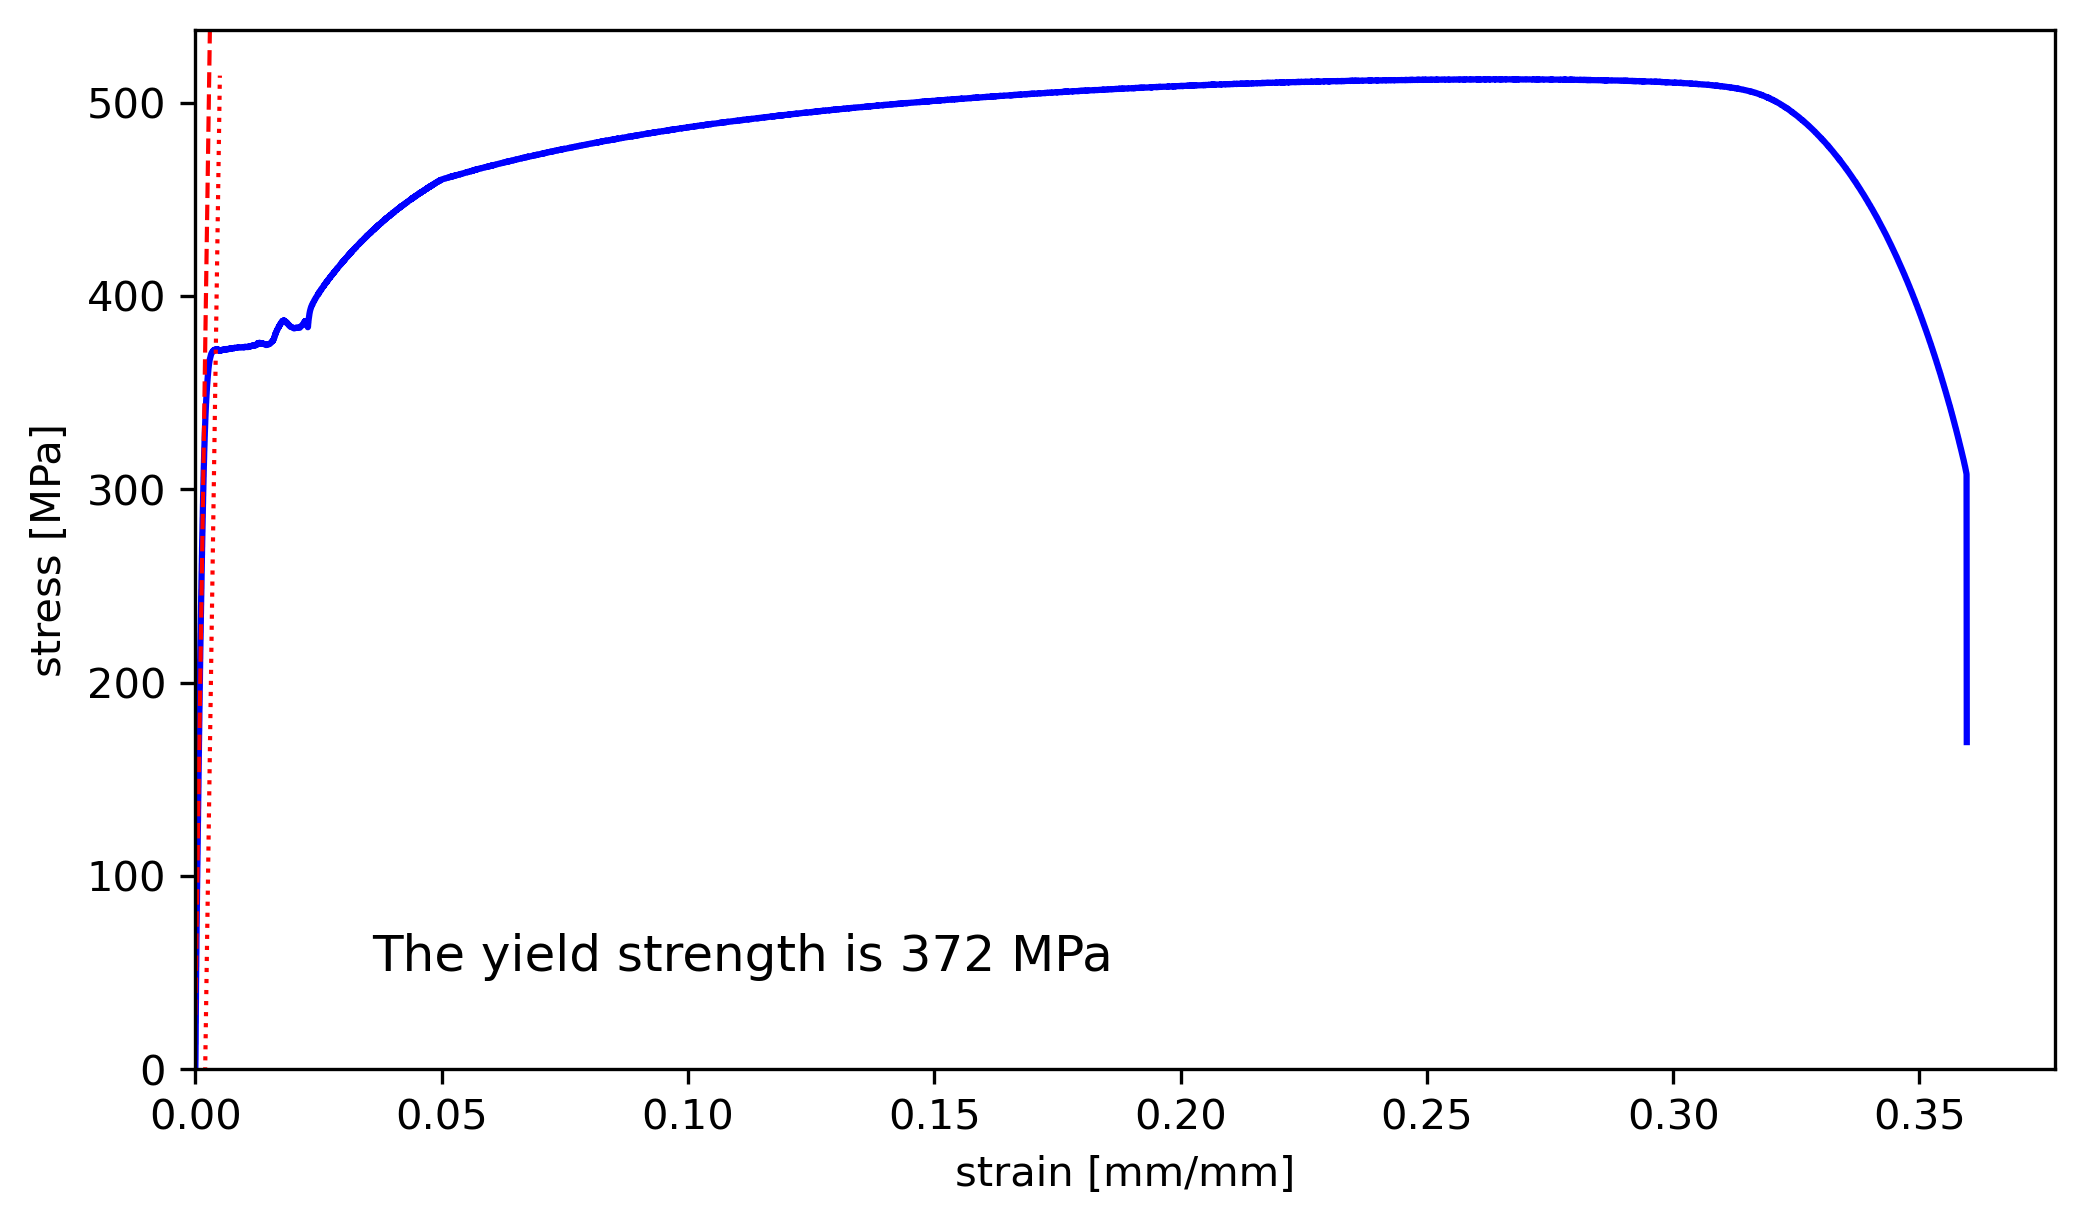
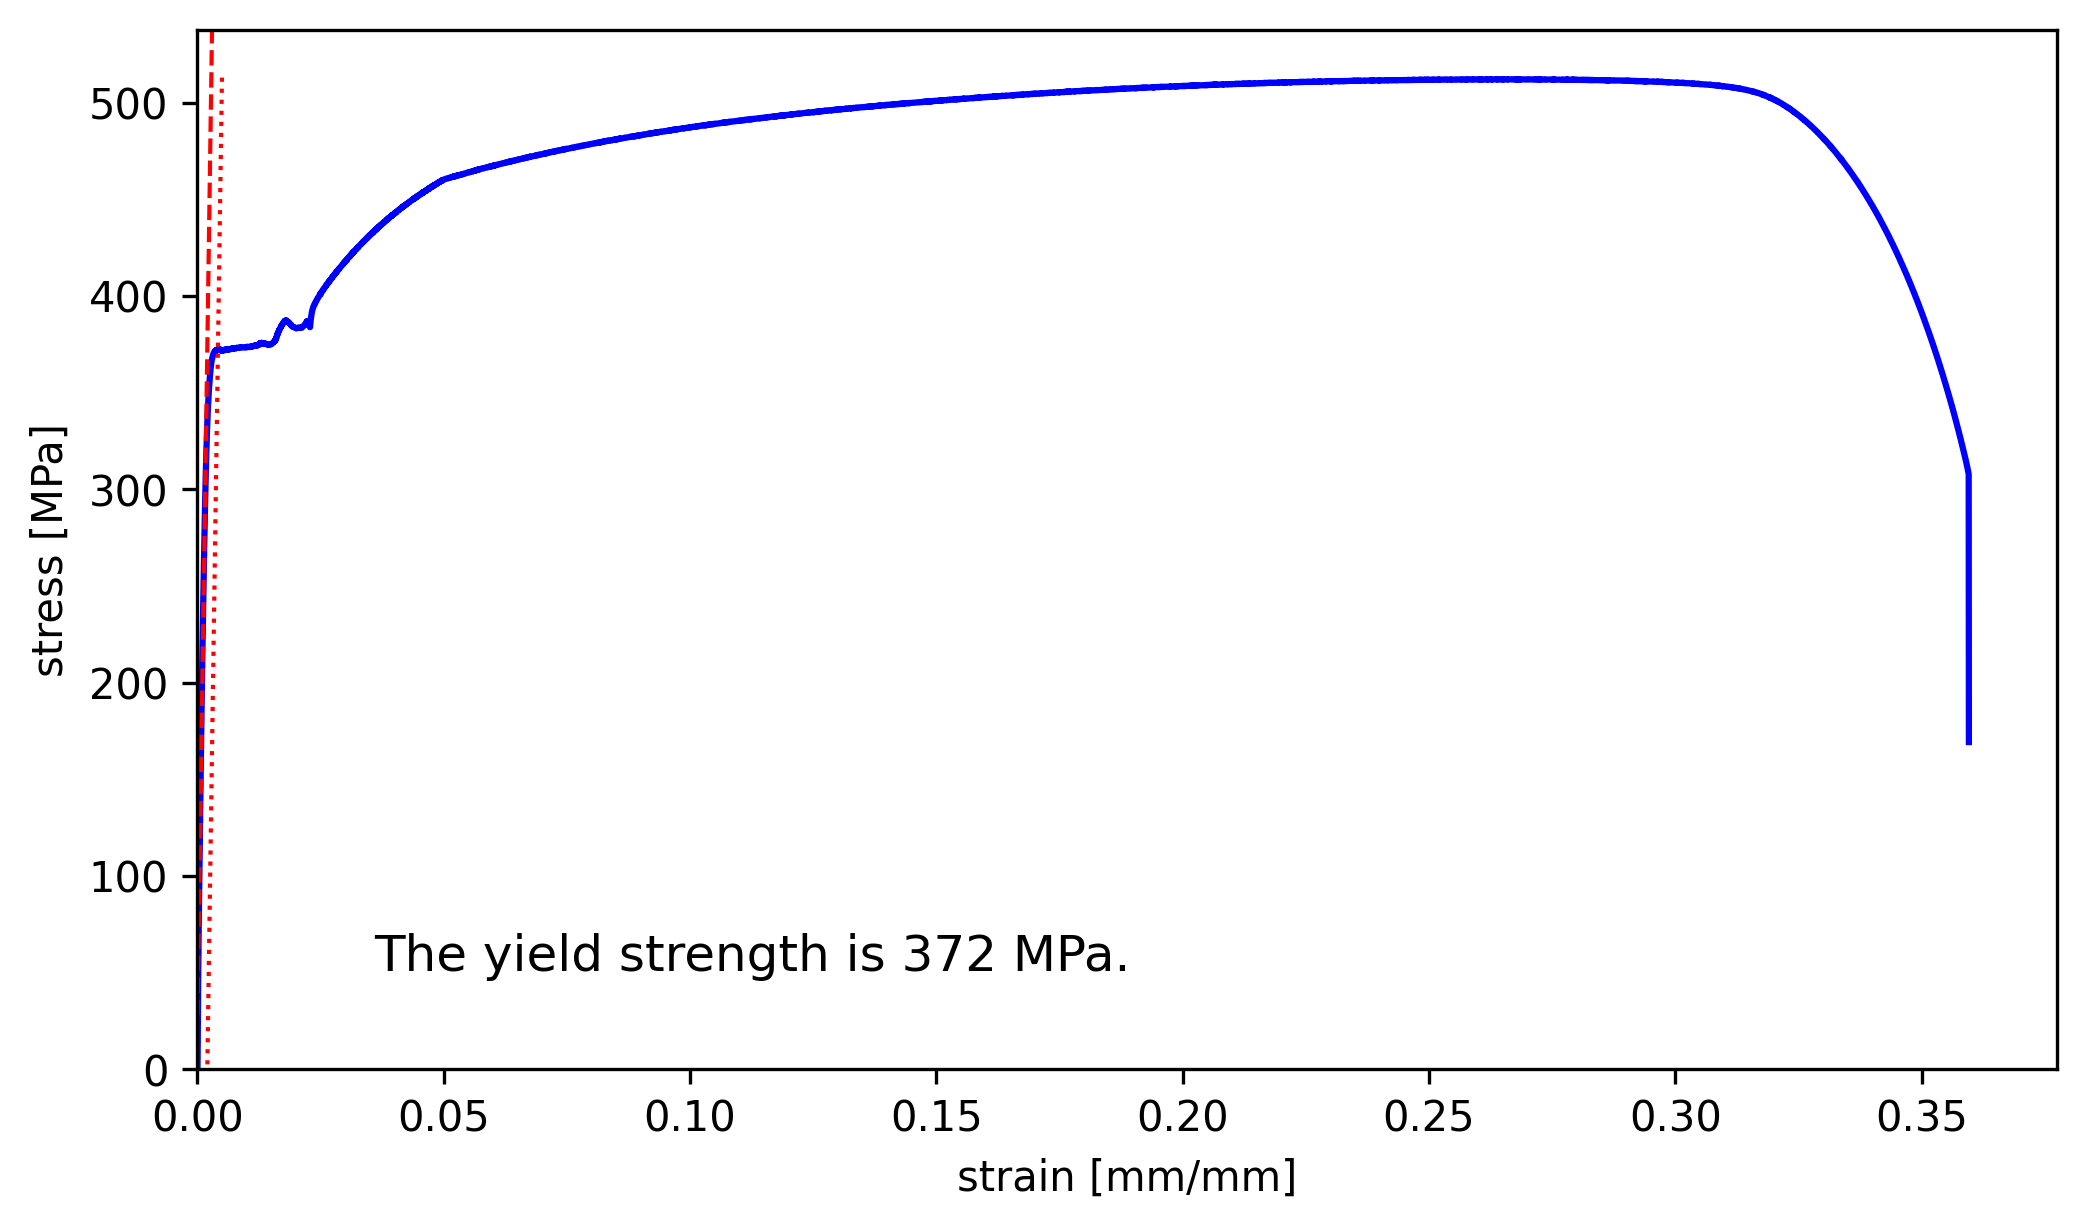
new functions

Changed region(s): [[0.0, 0.031, 0.9976, 0.9616], [0.1871, 0.7445, 0.53, 0.8065]]

diff --git a/tensile_test.py b/tensile_test.py
@@ -1,6 +1,6 @@
-import matplotlib.pyplot as plt 
-import numpy as np 
-import scipy as sp 
+import matplotlib.pyplot as plt
+import numpy as np
+import scipy as sp
 from scipy.optimize import curve_fit
 from utils import Hooke, r_squared
 
@@ -11,48 +11,50 @@ def plot_eng_SSC(strain, stress, save = False):
     plt.xlabel('strain [mm/mm]')
     plt.ylabel('stress [MPa]')
     plt.xlim(0, 1.05* max(strain))
-    plt.ylim(0, 1.05*max(stress))  
-    
-    if save != False:       
+    plt.ylim(0, 1.05*max(stress))
+
+    if save != False:
         plt.savefig('output/eng_SSC', dpi=300, bbox_inches='tight',transparent=False)
     else:
         plt.show()
 
 
-    
-def young_modulus(strain, stress, save = False):
-    
+
+def young_modulus(strain, stress, show_plot = False, save = False):
+
 # taking only the elastic portion of a curve
     x = strain[strain < 0.002]
-    y = stress[0:len(x)]    
+    y = stress[0:len(x)]
 # performing the linear regression on the elastic part of the data
     init_guess = [100000, 0]
     model = curve_fit(Hooke, x, y, p0 = init_guess)
     ans, cov = model
-    E, b = ans    
+    E, b = ans
     fit_curve = E * x + b
     E_gpa = round(E / 1000)
-    
+
 # calculating the R_squared statistic
     r2 = r_squared(x, y, Hooke, ans)
-# plotting the figure and showing or saving the figure
-    plt.figure(figsize = (8,4.5))
-    plt.plot(strain, stress, 'b-')
-    plt.plot(x, fit_curve, 'r-', linewidth = 2 )
-    plt.xlabel('strain [mm/mm]')
-    plt.ylabel('stress [MPa]')
-    plt.xlim(0, 1.05* max(strain))
-    plt.ylim(0, 1.05*max(stress))
-    plt.text(0.1*max(strain), 0.1*max(stress), f'The elasticity modulus is {E_gpa} GPa, R² = {round(r2, 4)}', fontsize=12)  
 
-    if save != False:     
-        plt.savefig('output/elasticity', dpi=300, bbox_inches='tight',transparent=False)
-    else:
-        plt.show()
-    
+    if show_plot == True:
+    # plotting the figure and showing or saving the figure
+        plt.figure(figsize = (8,4.5))
+        plt.plot(strain, stress, 'b-')
+        plt.plot(x, fit_curve, 'r-', linewidth = 2 )
+        plt.xlabel('strain [mm/mm]')
+        plt.ylabel('stress [MPa]')
+        plt.xlim(0, 1.05* max(strain))
+        plt.ylim(0, 1.05*max(stress))
+        plt.text(0.1*max(strain), 0.1*max(stress), f'The elasticity modulus is {E_gpa} GPa, R² = {round(r2, 4)}', fontsize=12)
+
+        if save != False:
+            plt.savefig('output/elasticity', dpi=300, bbox_inches='tight',transparent=False)
+        else:
+            plt.show()
+
     return E, int(b), r2
 
-def sigma_y(strain, stress, E_mpa, b, save = False):
+def sigma_y(strain, stress, E_mpa, b = 0, show_plot = True, save = False):
     # taking part of the data
     x = strain[strain < 0.005]
     k = x - 0.002
@@ -60,29 +62,68 @@ def sigma_y(strain, stress, E_mpa, b, save = False):
     # finding the index of sig_y
     i = 0
     while stress[i] > z[i]:
-        i = i + 1 
+        i = i + 1
 
     sig_y = stress[i]
 
+    if show_plot == True:
+            
+        plt.figure(figsize = (8,4.5))
+        plt.plot(strain, stress, 'b-')
+        plt.plot(x, Hooke(x, E_mpa, b), 'r--', linewidth = 1 )
+        plt.plot(x, Hooke(k, E_mpa), 'r:', linewidth = 1 )
+        plt.xlabel('strain [mm/mm]')
+        plt.ylabel('stress [MPa]')
+        plt.xlim(0, 1.05* max(strain))
+        plt.ylim(0, 1.05*max(stress))
+        plt.text(0.1*max(strain), 0.1*max(stress), f'The yield strength is {round(sig_y)} MPa.', fontsize=12)
 
-    plt.figure(figsize = (8,4.5))
-    plt.plot(strain, stress, 'b-')
-    plt.plot(x, Hooke(x, E_mpa, b), 'r--', linewidth = 1 )
-    plt.plot(x, Hooke(k, E_mpa), 'r:', linewidth = 1 )
-    plt.xlabel('strain [mm/mm]')
-    plt.ylabel('stress [MPa]')
-    plt.xlim(0, 1.05* max(strain))
-    plt.ylim(0, 1.05*max(stress))
-    plt.text(0.1*max(strain), 0.1*max(stress), f'The yield strength is {round(sig_y)} MPa.', fontsize=12)
+        if save != False:
+            plt.savefig('output/sigma_yield', dpi=300, bbox_inches='tight',transparent=False)
+        else:
+            plt.show()
 
-    if save != False:     
-        plt.savefig('output/sigma_yield', dpi=300, bbox_inches='tight',transparent=False)
-    else:
-        plt.show()
-    
     print(f'The yield strength is {round(sig_y)} MPa.')
     return sig_y
 
-def UTS(strain, stress):
-    return max(stress)
+def UTS(strain, stress, show = True):
+    uts = max(stress)
+    if show == True:
+        print(f'The ultimate tensile strength is {round(uts)} MPa. ')
+    return uts
+
+def uniform_elong(strain, stress, show = True):
+# transform data to numpy arrays
+    eps = strain.to_numpy()
+    sig = stress.to_numpy()
+
+# finds the index of the maximum stress
+    index = np.argmax(sig)
+    u_elong = eps[index]
+
+# prints depending on the user's choice
+    if show == True:
+        print(f'The uniform elongation is {round(u_elong, 4)}.')
+
+    return u_elong
+
+def resilience(E, sig_y, show = True):
+
+    U_r = (sig_y ** 2)/(2*E)
+
+    if show == True:
+        print(f'The resilience is {round(U_r,2)} MJ/m³. ')
+
+    return U_r
+
+def aprox_toughness(strain, sig_y, uts, show = True):
+
+    eps_f = max(strain)
+
+    U_t = eps_f * ((sig_y + uts) / 2)
     
+    if show == True:
+        print(f'The materials toughness is approximately {round(U_t)} MJ/m³.')
+    return U_t 
+
+

diff --git a/test.py b/test.py
@@ -8,12 +8,21 @@ data = pd.read_csv('data/am1.csv', sep = ';',
 strain = data['(mm/mm)']
 stress = data['(MPa)']
 
-tt.plot_eng_SSC(strain, stress, save = True)
+# tt.plot_eng_SSC(strain, stress, save = True)
 
-hooke = tt.young_modulus(strain, stress, save = True)
-
-tt.sigma_y(strain, stress, hooke[0], hooke[1], save = True)
+hooke = tt.young_modulus(strain, stress, plot = True, save = True)
 # print(hooke)
+E = hooke[0]
 
-uts = tt.UTS(strain, stress)
-print(uts)
+sig_y = tt.sigma_y(strain, stress, hooke[0], hooke[1], save = True)
+# # print(hooke)
+
+uts = tt.UTS(strain, stress, show = True)
+
+# tt.uniform_elong(strain, stress, show=True)
+
+tt.resilience(E, sig_y, True)
+
+tt.aprox_toughness(strain, sig_y, uts, show = True)
+
+# print(eps_u)

diff --git a/README.md b/README.md
@@ -1,0 +1,7 @@
+# Tensile test module
+
+The tensile test is a module being developed to help teaching the Microstructural and mechanical characterization of metals course at Universidade Federal de Minas Gerais (Federal University of Minas Gerais. This course is offered by the Metallurgical and Materials Engineering Departament, that is part of the School of Engineering. The course is an elective for the Metallurgical Engineering undergraduate students.
+
+The main goal of this project is to facilitate the classes and help the students to obtain consistent analysis of different datasets, so they can compare among each other and focus on the metallurgy of the discipline. 
+
+
